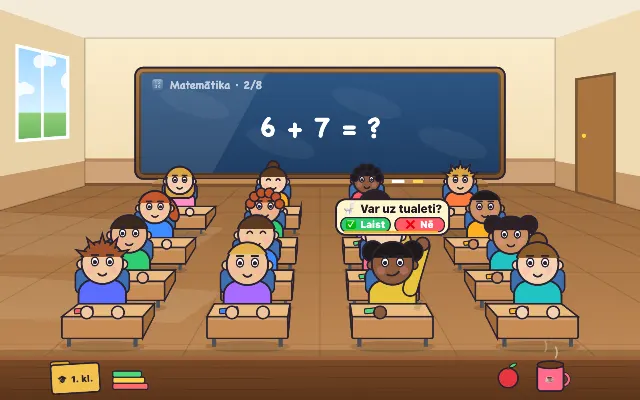
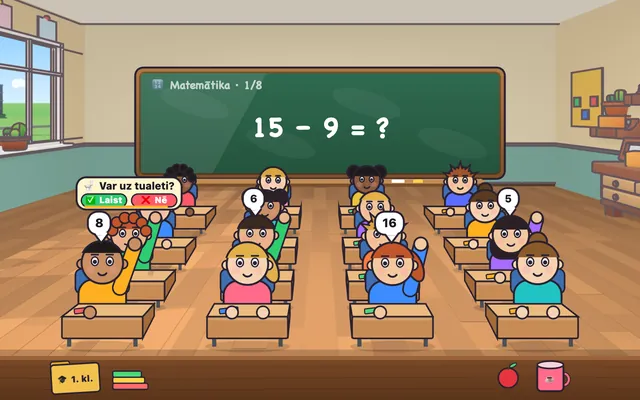
Skola: instrukcijas kadri no jaunās KayKit klases (5., mapīte – īsts kadrs), sākumlapas kartīte cover.webp 800×500; game.js?v=30

diff --git a/skola/game.js b/skola/game.js
@@ -777,7 +777,7 @@ function hud() {
 const TIERS = ['', 'viegli', 'vidēji', 'grūti'];
 // instrukcija pirms pirmās stundas (kopīgais TW.intro); vēlreiz – ⚙ „❓ Kā spēlēt”
 const INTRO = [{ img: 'intro/1.webp', t: 'Pieskaries skolēnam ar pareizo atbildi' }, { img: 'intro/2.webp', t: 'Redzi ❗? Ātri pieskaries draiskulim!' },
-  { img: 'intro/3.webp', t: '🚽 Laist uz tualeti? Šmaucējs smīn' }, { img: 'intro/4.webp', t: '☕ Kafija dod enerģiju' }, { ico: '📁', t: 'Par grūtu? Mapītē izvēlies klasi' }];
+  { img: 'intro/3.webp', t: '🚽 Laist uz tualeti? Šmaucējs smīn' }, { img: 'intro/4.webp', t: '☕ Kafija dod enerģiju' }, { img: 'intro/5.webp', t: 'Par grūtu? Mapītē izvēlies klasi' }];
 const intro = force => window.TW && TW.intro ? TW.intro('skola', INTRO, force) : Promise.resolve();
 function lobby() {
   if (L) L.st = 'end'; banner('');

diff --git a/skola/index.html b/skola/index.html
@@ -35,6 +35,6 @@
 <div id="toast"></div>
 
 <script src="questions.js?v=2"></script>
-<script src="game.js?v=29"></script>
+<script src="game.js?v=30"></script>
 </body>
 </html>

diff --git a/CLAUDE.md b/CLAUDE.md
@@ -130,7 +130,7 @@ Mini spēļu vietne https://tailersworld.lv (GitHub Pages, repo `RihardsABerzins
 - **🚽 Tualete** (`wcStart`/`wcDecide`): kāds paceļ roku „Var uz tualeti?” ar pogām Laist/Nē. Šmaucējs (`fake`) smīn, kabatā 📱; tiešām vajag – dīdās un svīst. Pareizs lēmums +4 noskaņojums, €1, 5 XP; palaists šmaucējs atgriežas un „spēlēja telefonā”; neatbildot 9 s – tiešām vajadzīgajam mīnuss.
 - **Tāfeles krāsa** (`BOARDS`, `save.board/boards`): zaļa (bez maksas), melna, zila, ķiršu, baltā marķieru – veikalā „🛍 Klase un tāfele”.
 - **Klases fons** – uzrenderēts Blenderī (`skola/bg/build_bg.py` → `bg/p|pt|lt|l.webp`, 70–170 KB, ~2,3× atsauces px, webp q90, 128 samples – telefonā/planšetē netiek palielināti; telefons/planšete × vertikāli/horizontāli), KayKit mēbeles/kaktusi (Furniture Bits), aiz logiem īsti caurumi sienā ar KayKit Forest kokiem un City Builder māju siluetu (CC0, `skola/CREDITS.txt`). `roomImg()` izvēlas pēc aizmugurējās sienas proporcijas, mērogo pēc sienas platuma un piesien pie grīdas līnijas `fy` (kadrs `BGX`=1.4× atsauces ekrāns – rezerve malām; zīmē ar imageSmoothingQuality 'high'); logu stikls caurspīdīgs, aiz tā kods zīmē debesis ar mākoņiem/putniem (`BG[k].win`). Tāfele, pulkstenis, skolēni, rotājumi un skolotāja galds – kods. Kamēr fons nav ielādēts – zīmētā telpa. Mainot attēlus, palielini `BGV`; jaunu atsauces ekrānu pievieno `REFS` (skripts izdrukā `BG` datus).
-- **Instrukcija** (`INTRO`, `TW.intro('skola', …)`) pirms pirmās stundas: 4 īsti kadri `skola/intro/1–4.webp` (atbildes, ❗ draiskulis, tualete, kafija) + 📁 mapīte; vēlreiz ⚙ „❓ Kā spēlēt”. Kadrus uzņem ar `cv` → 640×400 webp.
+- **Instrukcija** (`INTRO`, `TW.intro('skola', …)`) pirms pirmās stundas: 5 īsti kadri `skola/intro/1–5.webp` (atbildes, ❗ draiskulis, tualete, kafija, 📁 mapīte uz galda) ar KayKit klasi; vēlreiz ⚙ „❓ Kā spēlēt”. Kadrus uzņem ar `cv` 800×500 skatā → 640×400 webp (4.–5. – tuvplāns). Sākumlapas kartīte `skola/cover.webp` (800×500, klase ar paceltām rokām).
 - Pirmajā stundā mācības ar dzelteno baneri (1. jautājumā joku nav, 2. – lēns). Atvērts logs = pauze (`LT` neiet).
 - Atlīdzība: €3 + €5 par pareizo + €1 par pieķerto + €1 par pareizu tualetes lēmumu (+€5, ja noskaņojums ≥80; +€5 par 8/8; +€10 dienas beigās); XP 10 par pareizo + 5 par pieķerto/tualeti (+20 par 8/8).
 - 🛍 Klases rotājumi (`DECO`, kopīgā nauda, `save.deco`). Saglabāšana `skola/saves/{uid}`, medaļas grupa `skola` (stundas, bez kļūdām, pieķertie, pareizās atbildes, līmenis, tualetes lēmumi `save.wcOk`, pilnas skolas dienas `day/4`, sasniegtā klase, kafija `save.coffee`, rotājumi+tāfeles).
